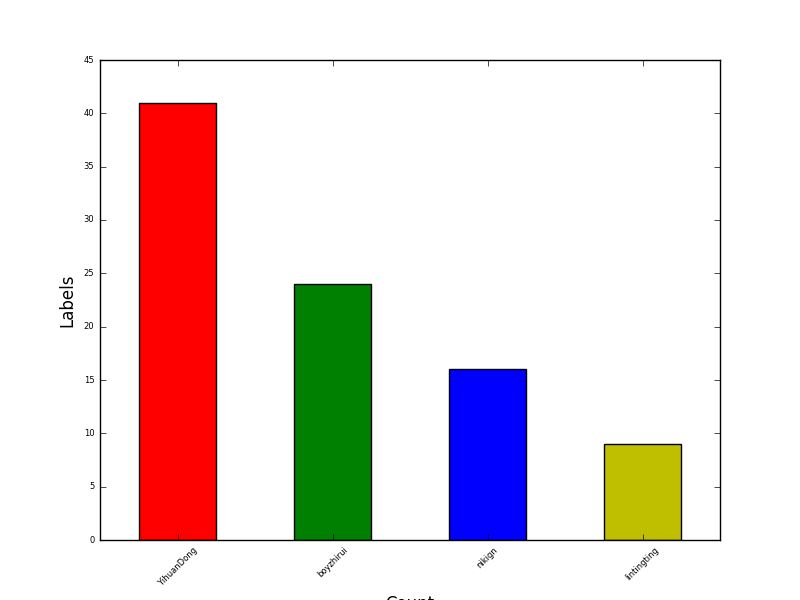
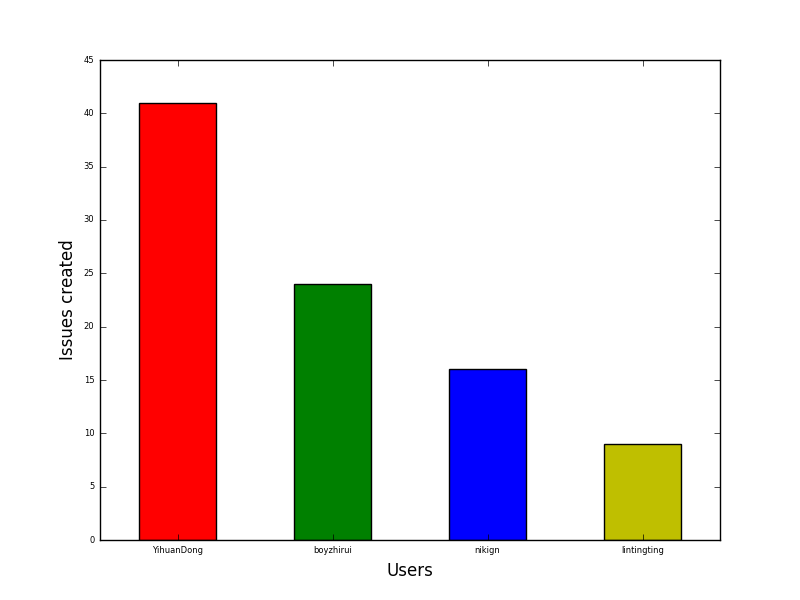
Modified personal_commit_rate.py to generate the graphs

diff --git a/commits/personal_commit_rate.py b/commits/personal_commit_rate.py
@@ -27,6 +27,18 @@ def secs(d0):
   delta = d - epoch
   return delta.total_seconds()
 
+def plot_graph(creators,week,file_name):
+  plt.bar(range(len(creators)), week, width=0.50, align='center', color = 'rgbymck')
+  plt.xticks(range(len(creators)), creators)
+  plt.ylabel('No. of Commits')
+  plt.xlabel('Users')
+  locs, creators = plt.xticks()
+  plt.setp(creators, rotation=30)
+  plt.tick_params(axis='both', which='minor', labelsize=5)
+  plt.tick_params(axis='both', which='major', labelsize=5)
+  plt.savefig(os.path.splitext(file_name)[0]+'_personal_commit_distribution'+'.png')
+  plt.clf()
+
 def get_commit_rate(file_name):
   csvfile = file(file_name,'rb')
   reader = csv.reader(csvfile)
@@ -44,13 +56,17 @@ def get_commit_rate(file_name):
   name_list = list(names)
   
   personalCommit = []
+  commit_count = []
   for member in names:
+     count = 0
      x = []
      csvfile.seek(0)
      for line in reader:
         [user,email,commit_at,message] = line
         if email == member:
           x.append(int(float(commit_at)))
+          count += 1
+     commit_count.append(count)
      personalCommit.append(x)
 
   t = []
@@ -87,6 +103,8 @@ def get_commit_rate(file_name):
      f.write('\n')
      weeks.append(week)
      num += 1
+  print(name_list)
+  plot_graph(name_list, commit_count, file_name)
   csvfile.close()
 
 f = open('commit_summary.txt','w')

diff --git a/issues/issue_creator_distribution.py b/issues/issue_creator_distribution.py
@@ -30,10 +30,10 @@ def secs(d0):
 def plot_graph(creators,count,file_name):
   plt.bar(range(len(creators)),count,width=0.50, align='center', color = 'rgbymc')
   plt.xticks(range(len(creators)), creators)
-  plt.ylabel('Labels')
-  plt.xlabel('Count')
+  plt.ylabel('Issues created')
+  plt.xlabel('Users')
   locs, creators = plt.xticks()
-  plt.setp(creators, rotation=45)
+  plt.setp(creators)
   plt.tick_params(axis='both', which='minor', labelsize=6)
   plt.tick_params(axis='both', which='major', labelsize=6)
   plt.savefig(os.path.splitext(file_name)[0]+'_issue_creator_distribution'+'.png')
